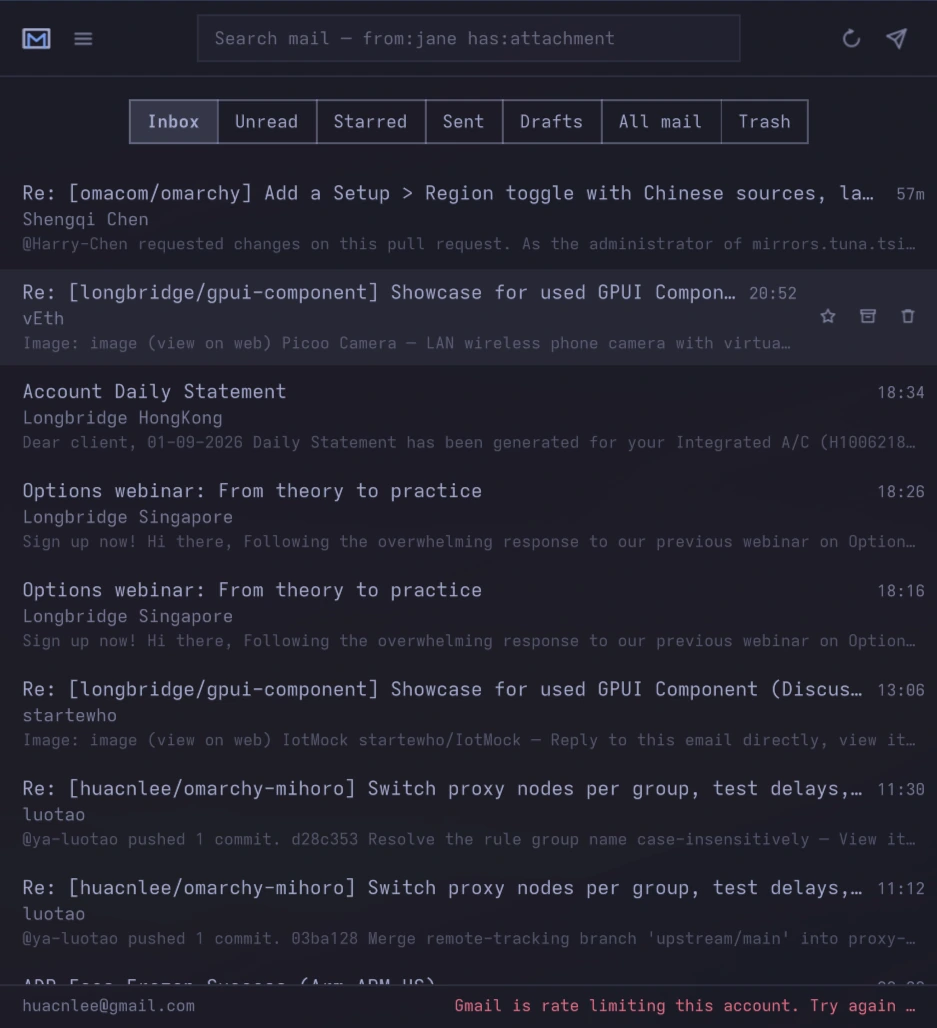
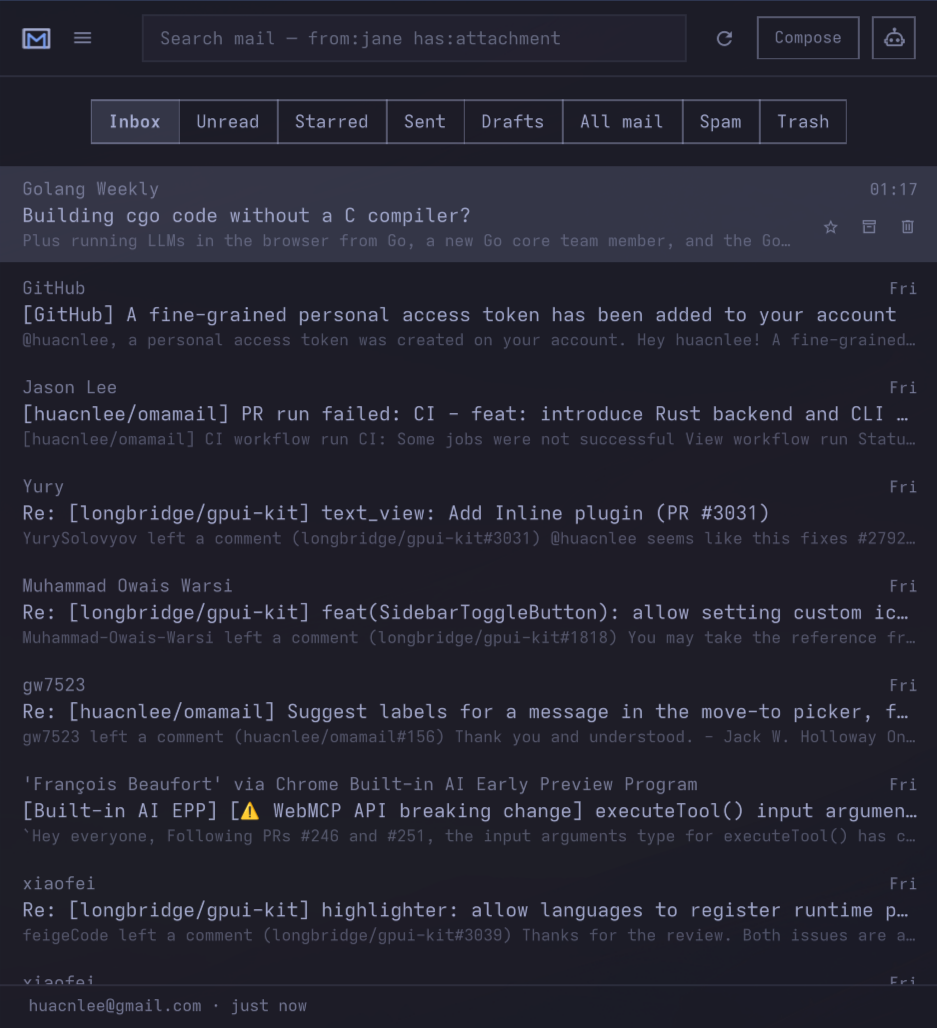
docs: refresh compact inbox screenshot

diff --git a/docs/index.html b/docs/index.html
@@ -799,7 +799,7 @@ footer p:last-child { margin-bottom: 0; }
     <figure>
       <p class="shot-label" data-zh="小窗口">MINI SIZE</p>
       <div class="shot-row shot-row-3">
-        <img class="shot shot-mini" src="images/mini-list.webp" width="937" alt="Omamail - Mini size: the message list, with mailbox tabs above it" loading="lazy">
+        <img class="shot shot-mini" src="images/mini-list.webp" width="937" height="1028" alt="Omamail - Mini size: the message list, with mailbox tabs above it" loading="lazy">
         <img class="shot shot-mini" src="images/mini-message.webp" width="937" alt="Omamail - Mini size: one message open in a single detail view" loading="lazy">
         <img class="shot shot-mini" src="images/mini-compose.webp" width="937" alt="Omamail - Mini size: writing a new message" loading="lazy">
       </div>
